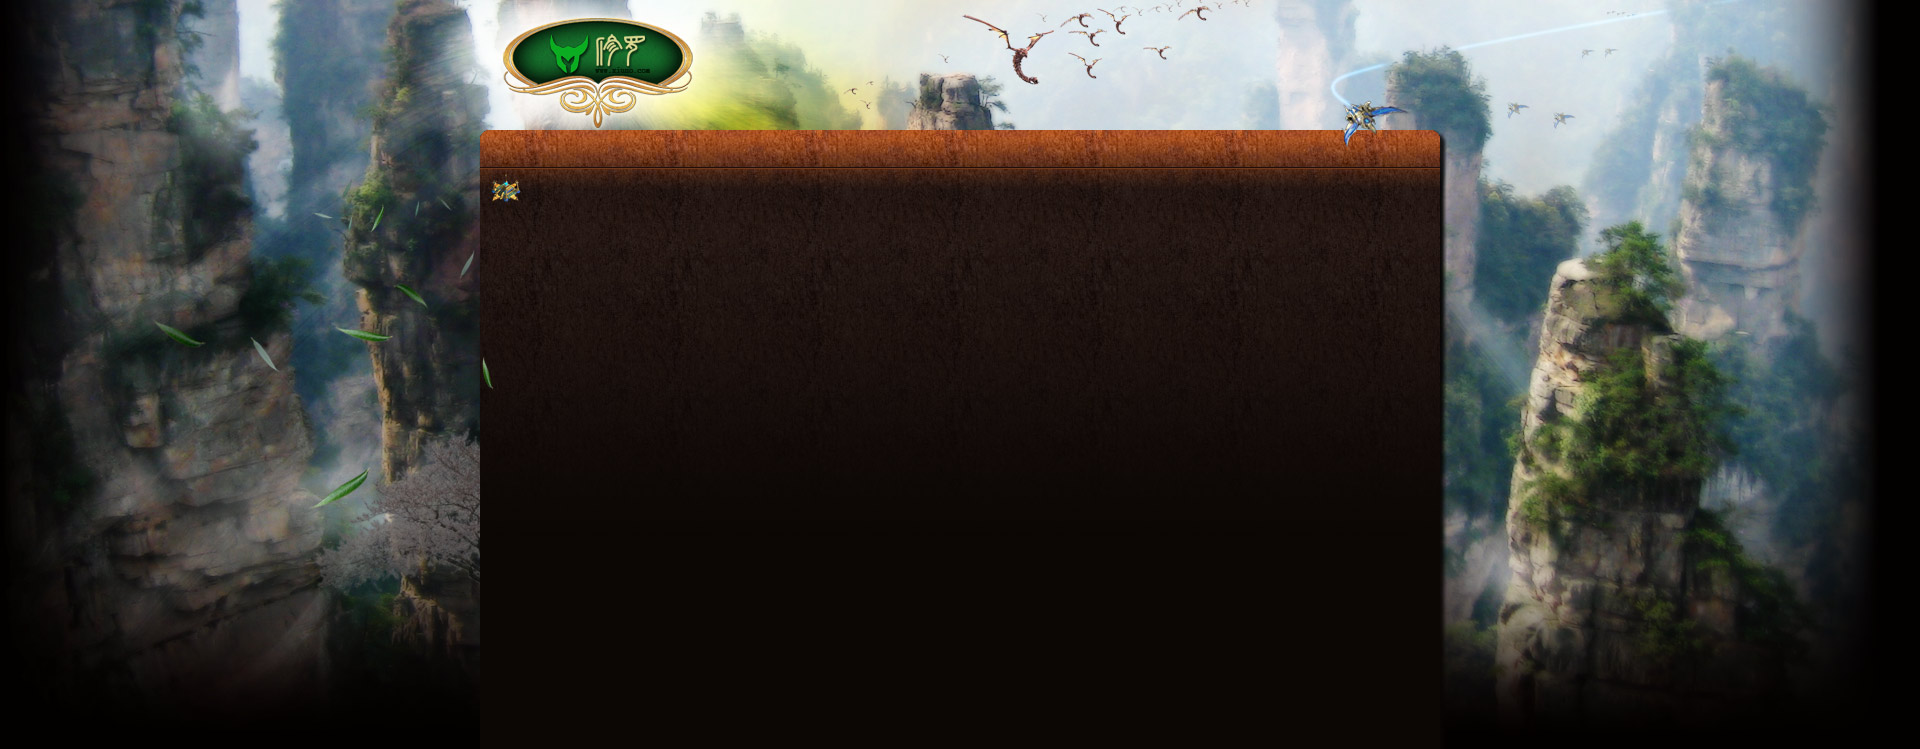
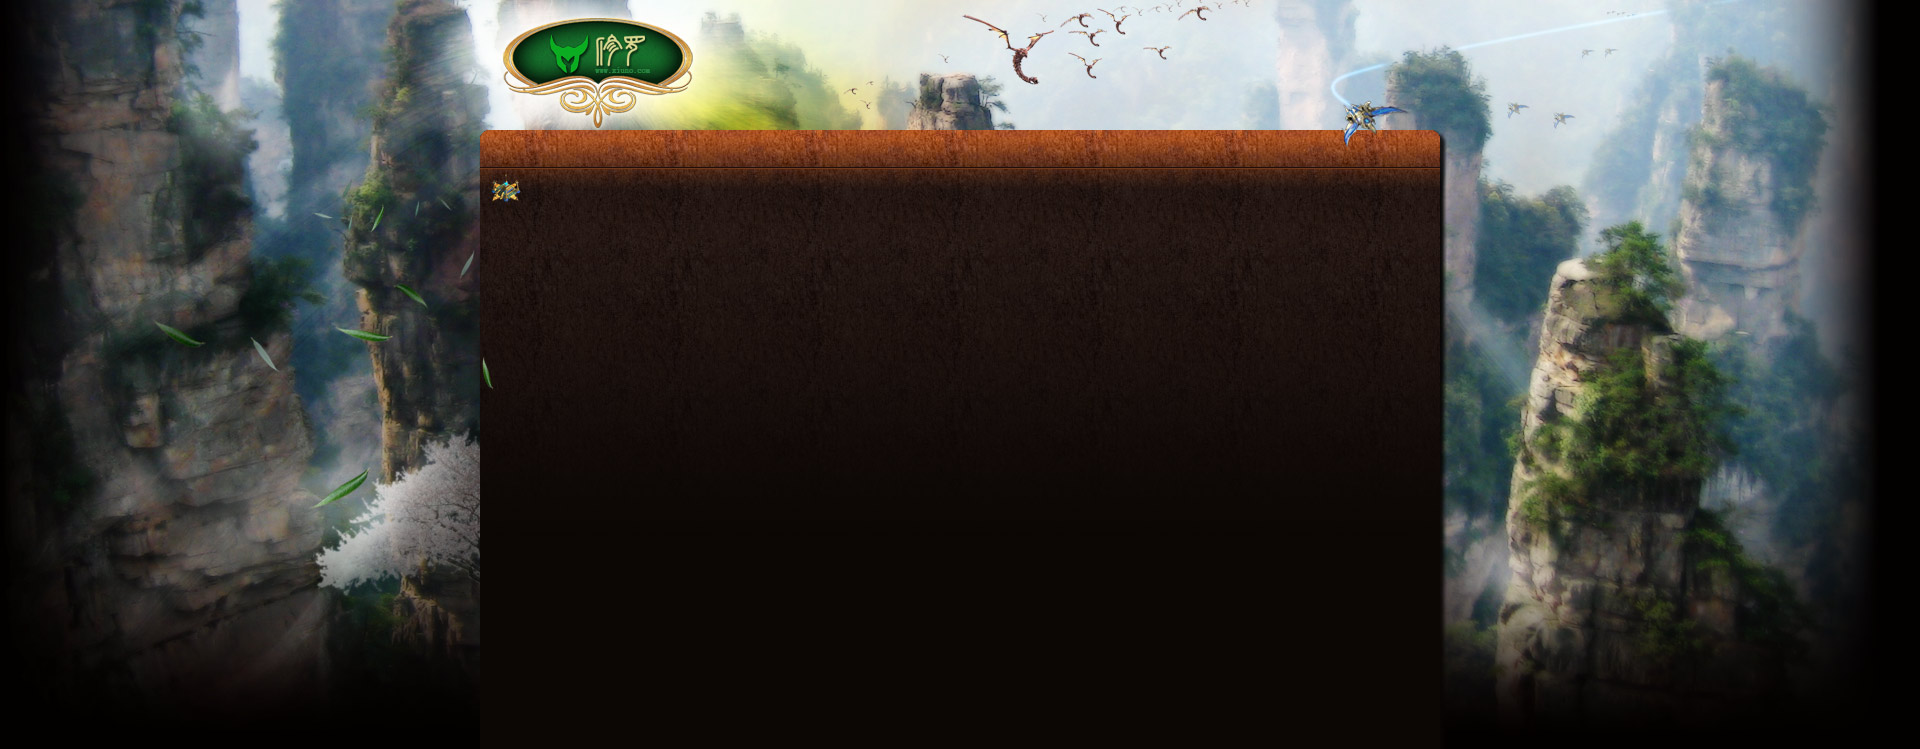
modified:   body_bg.jpg 	modified:   common_overwrite.css 	modified:   footer_end.htm

Changed region(s): [[0.1562, 0.5834, 0.25, 0.7984], [0.3125, 0.0921, 0.3438, 0.1228]]

diff --git a/plugin/view_sc/common_overwrite.css b/plugin/view_sc/common_overwrite.css
@@ -1,5 +1,7 @@
-html {background: url(body_bg.gif) top center repeat-y;}
-body {background: url(body_bg.jpg) top center no-repeat;}
+body {background: #000000;}
+#wrapper1 {background: url(body_bg.gif) top center repeat-y;}
+#wrapper2 {background: url(body_bg.jpg) top center no-repeat;}
+
 body, textarea, td {color: #D3AC6B;}
 a {color: #FF9600;}
 a:hover{color: #FFFFFF;}

diff --git a/plugin/view_sc/footer_end.htm b/plugin/view_sc/footer_end.htm
@@ -1,8 +1,8 @@
 <script>
-var win_height = $(window).height();
+/*var win_height = $(window).height();
 var body_height = $(body).height();
 var footer_height = 281;
 if(win_height > body_height + 281) {
 	$('#footer').css('margin-top', (win_height - body_height - footer_height) + 'px');
-}
+}*/
 </script>
